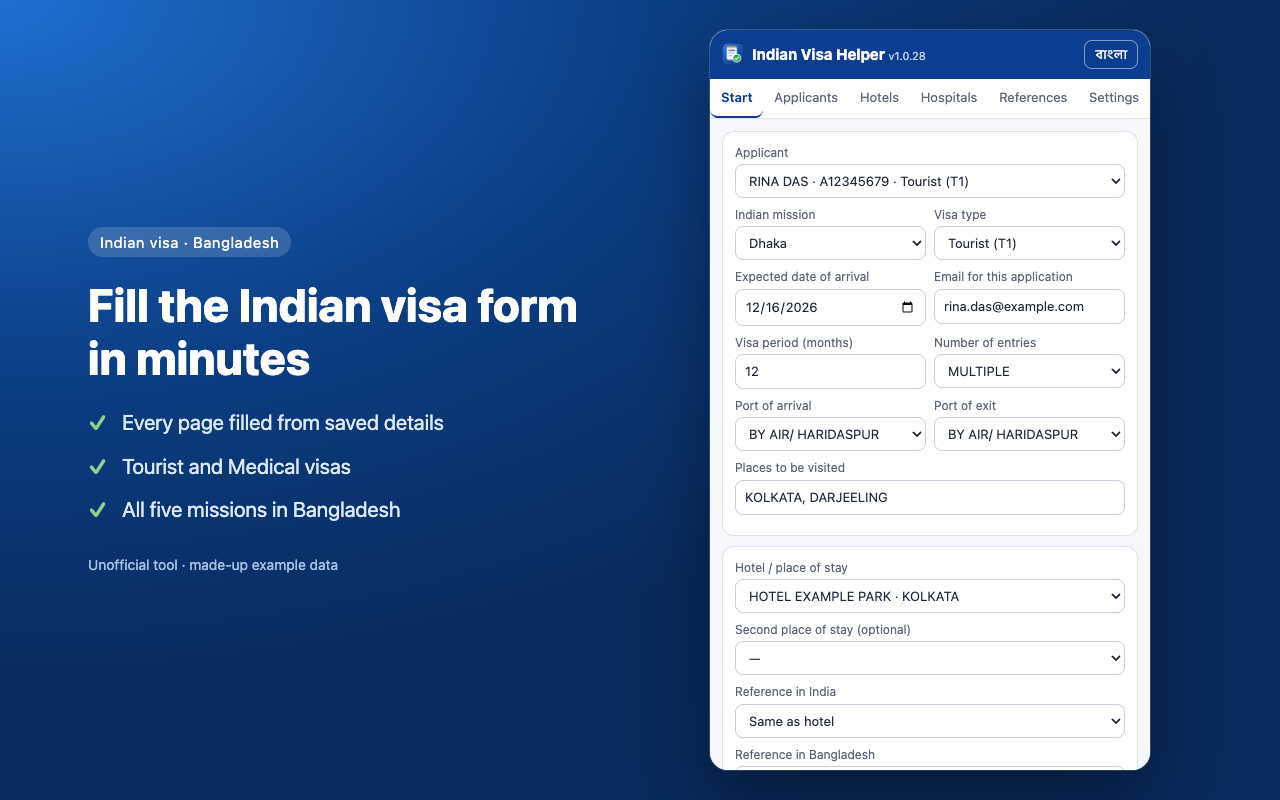
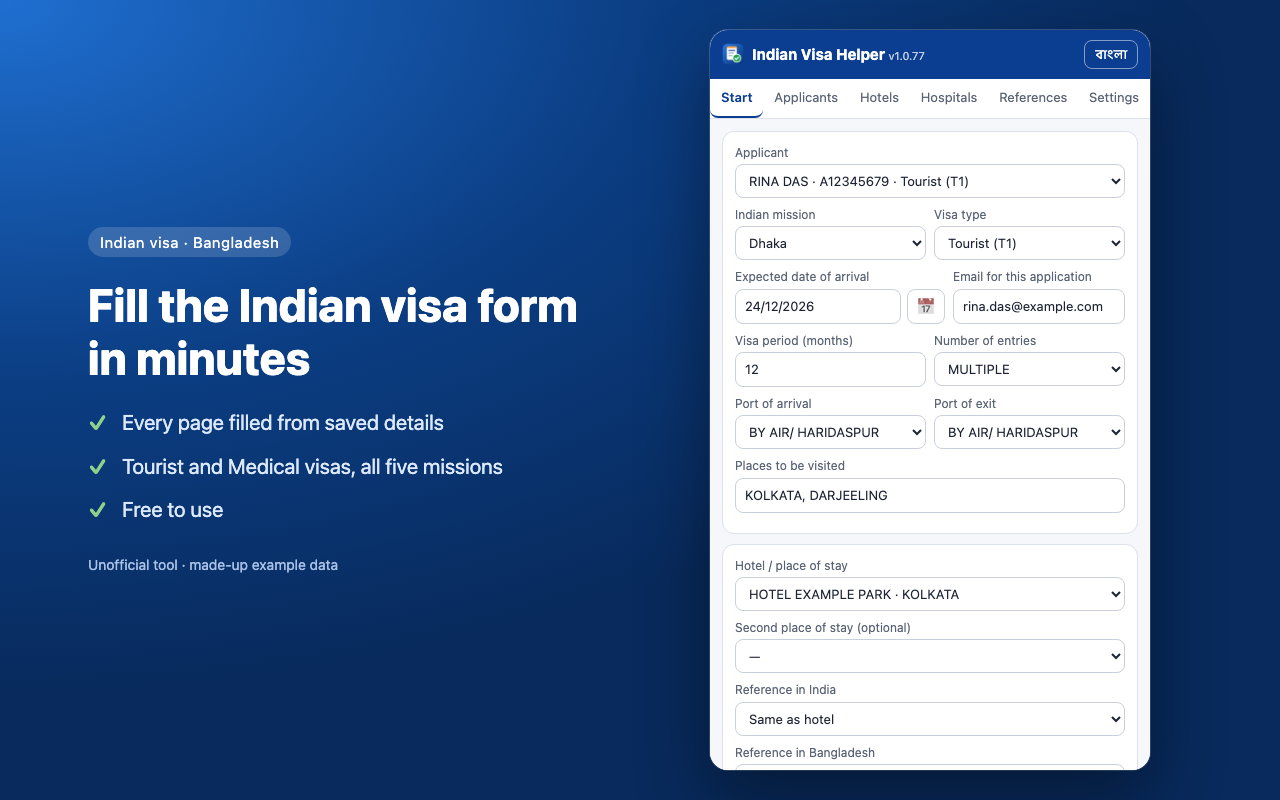
Indian Visa Form Helper v1.0.77
- History, Temporary ID and sync dates shown as DD/MM/YYYY
- Five new store screenshots and a bolder small promo tile
- Store description: family addresses, DD/MM/YYYY dates, auto-updates

diff --git a/store/shots/promo.html b/store/shots/promo.html
@@ -3,22 +3,73 @@
 <head>
 <meta charset="utf-8">
 <title>Store promo tile</title>
-<!-- 440×280 small promo tile for the Chrome Web Store. -->
+<!-- 440×280 small promo tile for the Chrome Web Store (shown on search and category cards).
+     No flags or government emblems: the helper is unofficial. -->
 <style>
   html, body { margin: 0; width: 440px; height: 280px; overflow: hidden; }
-  body { font-family: system-ui, -apple-system, "Segoe UI", sans-serif; color: #fff;
-    background: radial-gradient(500px 320px at 0% 0%, #1f6fd1 0%, #0b3d82 60%, #082a5c 100%);
-    display: flex; flex-direction: column; justify-content: center; padding: 0 36px; box-sizing: border-box; }
-  .top { display: flex; align-items: center; gap: 14px; margin-bottom: 16px; }
-  img { width: 64px; height: 64px; }
-  .tag { font-size: 13px; background: rgba(255,255,255,.16); padding: 5px 10px; border-radius: 999px; }
-  h1 { font-size: 30px; line-height: 1.15; margin: 0 0 10px; font-weight: 750; }
-  p { margin: 0; font-size: 15px; color: #cfe0f8; }
+  body { font-family: system-ui, -apple-system, "Segoe UI", sans-serif; color: #fff; position: relative;
+    background: radial-gradient(260px 220px at 85% 30%, rgba(80,170,255,.45), transparent 70%),
+                linear-gradient(135deg, #1565d8 0%, #0b3f8f 55%, #072a62 100%); }
+  /* soft dotted texture */
+  body::before { content: ""; position: absolute; inset: 0; opacity: .12;
+    background-image: radial-gradient(#fff 1px, transparent 1.2px); background-size: 14px 14px; }
+
+  .left { position: absolute; left: 24px; top: 22px; width: 232px; }
+  .brand { display: flex; align-items: center; gap: 8px; font-size: 12.5px; font-weight: 600; color: #d6e6ff; }
+  .brand img { width: 30px; height: 30px; }
+  h1 { margin: 12px 0 0; font-size: 33px; line-height: 1.02; font-weight: 850; letter-spacing: -.5px; }
+  h1 span { color: #ffd34d; }
+  .sub { margin: 8px 0 0; font-size: 14px; font-weight: 600; color: #e3eeff; }
+  .free { position: absolute; left: 24px; bottom: 20px; display: inline-flex; align-items: center; gap: 6px;
+    background: #ffc928; color: #3a2a00; font-weight: 850; font-size: 14px; padding: 7px 13px; border-radius: 999px;
+    box-shadow: 0 4px 12px rgba(0,0,0,.28); }
+  .chips { position: absolute; left: 24px; bottom: 58px; display: flex; gap: 6px; }
+  .chip { font-size: 11px; font-weight: 700; background: rgba(255,255,255,.16); border: 1px solid rgba(255,255,255,.25);
+    padding: 4px 8px; border-radius: 999px; white-space: nowrap; }
+
+  /* form card */
+  .form { position: absolute; right: 22px; top: 30px; width: 150px; height: 196px; background: #fff; border-radius: 12px;
+    box-shadow: 0 14px 30px rgba(0,0,0,.35); transform: rotate(4deg); padding: 12px 12px; box-sizing: border-box; color: #1f2937; }
+  .form .hd { height: 9px; width: 70%; background: #1565d8; border-radius: 4px; margin-bottom: 12px; }
+  .row { display: flex; align-items: center; gap: 7px; margin-bottom: 11px; }
+  .ok { flex: none; width: 15px; height: 15px; border-radius: 50%; background: #16a34a; display: grid; place-items: center; }
+  .ok::after { content: ""; width: 6px; height: 3px; border-left: 2px solid #fff; border-bottom: 2px solid #fff;
+    transform: rotate(-45deg) translate(1px,-1px); }
+  .line { height: 8px; border-radius: 4px; background: #dbe4f0; flex: 1; }
+  .btn { margin-top: 4px; height: 20px; border-radius: 6px; background: #16a34a; color: #fff; font-size: 10px; font-weight: 800;
+    display: grid; place-items: center; }
+
+  /* passport */
+  .pass { position: absolute; right: 128px; top: 150px; width: 78px; height: 104px; border-radius: 8px;
+    background: linear-gradient(160deg, #0f6b3a, #064e2a); box-shadow: 0 10px 22px rgba(0,0,0,.4); transform: rotate(-10deg);
+    display: flex; flex-direction: column; align-items: center; justify-content: center; gap: 8px; }
+  .pass .seal { width: 30px; height: 30px; border-radius: 50%; border: 2px solid #e8c766; }
+  .pass .t { font-size: 8.5px; font-weight: 800; letter-spacing: 1.2px; color: #e8c766; }
+  .pass.in { right: 92px; top: 112px; transform: rotate(12deg); background: linear-gradient(160deg, #1d2f6b, #0d1a45); }
+  .pass .c { font-size: 7px; font-weight: 700; letter-spacing: .8px; color: #e8c766; opacity: .9; }
+  .scan { position: absolute; left: -6px; right: -6px; top: 44px; height: 3px; background: #5ff0ff;
+    box-shadow: 0 0 10px 3px rgba(95,240,255,.8); border-radius: 2px; }
 </style>
 </head>
 <body>
-  <div class="top"><img src="/extension/icons/icon128.png" alt=""><span class="tag">Bangladesh · Tourist & Medical</span></div>
-  <h1>Indian Visa<br>Form Helper</h1>
-  <p>Fill every page from saved details. Unofficial.</p>
+  <div class="left">
+    <div class="brand"><img src="/extension/icons/icon128.png" alt="">For Bangladesh applicants</div>
+    <h1>Indian Visa<br><span>Auto-Fill</span></h1>
+    <p class="sub">Every page filled in seconds</p>
+  </div>
+  <div class="chips"><span class="chip">📷 Passport scan</span><span class="chip">EN · বাংলা</span></div>
+  <div class="free">✓ FREE to use</div>
+
+  <div class="form">
+    <div class="hd"></div>
+    <div class="row"><span class="ok"></span><span class="line"></span></div>
+    <div class="row"><span class="ok"></span><span class="line" style="flex:.7"></span></div>
+    <div class="row"><span class="ok"></span><span class="line"></span></div>
+    <div class="row"><span class="ok"></span><span class="line" style="flex:.6"></span></div>
+    <div class="row"><span class="ok"></span><span class="line" style="flex:.85"></span></div>
+    <div class="btn">FILLED ✓</div>
+  </div>
+  <div class="pass in"><span class="t">INDIA</span><span class="seal"></span><span class="c">PASSPORT</span></div>
+  <div class="pass"><span class="t">BANGLADESH</span><span class="seal"></span><span class="c">PASSPORT</span><span class="scan"></span></div>
 </body>
 </html>

diff --git a/extension/sidepanel/sidepanel.js b/extension/sidepanel/sidepanel.js
@@ -954,7 +954,7 @@ async function refreshStart() {
       return h('div', { class: 'tempid' },
         h('div', {},
           h('code', { title: t('copyTip'), onclick: () => navigator.clipboard.writeText(x.id).then(() => toast(t('copied'))) }, x.id),
-          h('div', { style: 'color:var(--muted)' }, `${x.name} · ${new Date(x.at).toLocaleDateString()}${x.lastPage ? ' · ' + t('lastPage') + ': ' + x.lastPage : ''}`)),
+          h('div', { style: 'color:var(--muted)' }, `${x.name} · ${new Date(x.at).toLocaleDateString('en-GB')}${x.lastPage ? ' · ' + t('lastPage') + ': ' + x.lastPage : ''}`)),
         // A submitted application can't be resumed; one whose applicant was deleted has nobody to fill it with.
         owner && !x.appId ? h('button', { style: 'padding:3px 8px;font-size:12px;flex:0 0 auto', onclick: () => resumeApplication(owner, x) }, '↻ ' + t('resume')) : null,
         h('button', { class: 'danger', style: 'padding:3px 8px;font-size:12px;flex:0 0 auto', title: t('tempRemove'), onclick: () => removeTempIds(y => y.id === x.id).then(refreshStart) }, '✕'));
@@ -1111,7 +1111,7 @@ function tempIdsCard(p, list, rerender) {
   return h('div', { class: 'card' }, h('h3', {}, t('tempIdsFor')), ...mine.map(x => h('div', { class: 'tempid' },
     h('div', {},
       h('code', { title: t('copyTip'), onclick: () => navigator.clipboard.writeText(x.id).then(() => toast(t('copied'))) }, x.id),
-      h('div', { style: 'color:var(--muted)' }, `${new Date(x.at).toLocaleDateString()}${x.lastPage ? ' · ' + t('lastPage') + ': ' + x.lastPage : ''}`)),
+      h('div', { style: 'color:var(--muted)' }, `${new Date(x.at).toLocaleDateString('en-GB')}${x.lastPage ? ' · ' + t('lastPage') + ': ' + x.lastPage : ''}`)),
     x.appId ? null : h('button', { style: 'padding:3px 8px;font-size:12px', onclick: () => resumeApplication(p, x) }, '↻ ' + t('resume')),
     h('button', { class: 'danger', style: 'padding:3px 8px;font-size:12px', title: t('tempRemove'), onclick: () => removeTempIds(y => y.id === x.id).then(rerender) }, '✕'))));
 }
@@ -1156,8 +1156,8 @@ function appRow(a, rerender, withName = false) {
     h('div', {},
       withName ? h('div', { style: 'font-weight:600' }, a.name || '—') : null,
       h('code', { title: t('copyTip'), onclick: () => navigator.clipboard.writeText(a.id).then(() => toast(t('copied'))) }, a.id),
-      h('div', { style: 'color:var(--muted)' }, [mission, type, a.submittedAt ? t('appSubmitted') + ' ' + new Date(a.submittedAt).toLocaleDateString() : t('appAdded') + ' ' + new Date(a.at).toLocaleDateString()].filter(Boolean).join(' · ')),
-      h('div', {}, a.status ? [h('b', {}, t('appStatus') + ': '), a.status.text, h('span', { style: 'color:var(--muted)' }, ` (${t('appChecked')} ${new Date(a.status.at).toLocaleString()})`)] : h('span', { style: 'color:var(--muted)' }, t('appNoStatus'))),
+      h('div', { style: 'color:var(--muted)' }, [mission, type, a.submittedAt ? t('appSubmitted') + ' ' + new Date(a.submittedAt).toLocaleDateString('en-GB') : t('appAdded') + ' ' + new Date(a.at).toLocaleDateString('en-GB')].filter(Boolean).join(' · ')),
+      h('div', {}, a.status ? [h('b', {}, t('appStatus') + ': '), a.status.text, h('span', { style: 'color:var(--muted)' }, ` (${t('appChecked')} ${new Date(a.status.at).toLocaleString('en-GB', { dateStyle: 'short', timeStyle: 'short' })})`)] : h('span', { style: 'color:var(--muted)' }, t('appNoStatus'))),
       a.pdf ? h('div', { style: 'color:var(--muted)' }, `📄 ${a.pdf.name} · ${Math.round(a.pdf.size / 1024)} KB`) : null),
     h('div', { style: 'display:flex;gap:4px;flex-wrap:wrap' },
       h('button', { ...small, onclick: () => openSiteJob('status', a) }, '🔎 ' + t('appStatusBtn')),
@@ -1444,7 +1444,7 @@ const SYNC_KEYS = ['profiles', 'hotels', 'hospitals', 'contacts', 'tempIds', 'ap
 let syncPassword = null; // kept only while the panel is open
 
 function syncCard(st, save) {
-  const info = h('div', { class: 'note', hidden: !st.syncAt }, st.syncAt ? t('syncLast').replace('{when}', new Date(st.syncAt).toLocaleString()) : '');
+  const info = h('div', { class: 'note', hidden: !st.syncAt }, st.syncAt ? t('syncLast').replace('{when}', new Date(st.syncAt).toLocaleString('en-GB', { dateStyle: 'short', timeStyle: 'short' })) : '');
   return h('div', { class: 'card' },
     h('h3', {}, '🔄 ' + t('syncTitle')),
     h('div', { class: 'note' }, t('syncHelp')),

diff --git a/store/shots/shot.html b/store/shots/shot.html
@@ -29,12 +29,14 @@
   const n = new URLSearchParams(location.search).get('n') || '1';
   const SHOTS = {
     1: { tab: 'start', tag: 'Indian visa · Bangladesh', title: 'Fill the Indian visa form in minutes',
-         points: ['Every page filled from saved details', 'Tourist and Medical visas', 'All five missions in Bangladesh'] },
-    2: { tab: 'profiles', tag: 'Families and agencies', title: 'Enter each applicant once. Reuse every time.',
-         points: ['Passport scan reads the details', 'Photo and PDFs made the right size', 'Hotels, hospitals and references saved'] },
-    3: { tab: 'start', scroll: 'history', tag: 'After you submit', title: 'Keep track of every application',
-         points: ['Application PDF saved for each person', 'Visa status in one click', 'Resume an unfinished form'] },
-    4: { tab: 'start', lang: 'bn', tag: 'বাংলা ও English', title: 'বাংলা ও ইংরেজি — দুই ভাষাতেই',
+         points: ['Every page filled from saved details', 'Tourist and Medical visas, all five missions', 'Free to use'] },
+    2: { tab: 'profiles', tag: 'Passport scan', title: 'Drop in a passport. Get every detail.',
+         points: ['Reads names, dates, parents and address', 'Photo or PDF, colour or black and white', 'Enter each applicant once, reuse every time'] },
+    3: { tab: 'profiles', edit: true, find: 'addr-bar', tag: 'Families', title: 'One family, one address. Fill it in a click.',
+         points: ['Save a family address and reuse it', 'Dates in DD/MM/YYYY', 'Missing fields shown before you start'] },
+    4: { tab: 'start', find: 'history', tag: 'After you submit', title: 'Keep track of every application',
+         points: ['Application PDF kept for each person', 'Visa status in one click', 'Resume an unfinished form'] },
+    5: { tab: 'start', lang: 'bn', tag: 'বাংলা ও English', title: 'বাংলা ও ইংরেজি — দুই ভাষাতেই',
          points: ['ক্যাপচা ও চূড়ান্ত সাবমিট আপনার হাতে', 'সব তথ্য আপনার নিজের কম্পিউটারে', 'কোনো অ্যাকাউন্ট বা ট্র্যাকিং নেই'] },
   };
   const s = SHOTS[n];
@@ -47,10 +49,16 @@
   f.onload = () => setTimeout(() => {
     const d = f.contentDocument;
     d.querySelector(`[data-tab=${s.tab}]`)?.click();
-    if (s.scroll) setTimeout(() => {
-      const el = [...d.querySelectorAll('h2,h3,.card b,.card .t')].find(x => /history|ইতিহাস/i.test(x.textContent));
-      (el?.closest('.card') || el)?.scrollIntoView({ block: 'start' });
-    }, 400);
+    if (s.edit) setTimeout(() => [...d.querySelectorAll('button')].find(x => /^(Edit|এডিট|সম্পাদনা)$/.test(x.textContent.trim()))?.click(), 300);
+    if (s.find) setTimeout(() => {
+      let el = s.find === 'history'
+        ? [...d.querySelectorAll('h3')].find(x => /^(Application history|আবেদনের ইতিহাস)$/.test(x.textContent.trim()))?.closest('.card')
+        : d.querySelector('.' + s.find);
+      el?.scrollIntoView({ block: s.find === 'history' ? 'start' : 'center' });
+      // the panel's header and tabs stay on top: move the card below them
+      if (el && s.find === 'history') { const top = el.getBoundingClientRect().top, head = d.querySelector('header, nav, .tabs');
+        const below = head ? head.getBoundingClientRect().bottom + 40 : 130; [d.scrollingElement, el.closest('main, .content, .tab-body')].forEach(x => x && (x.scrollTop -= below - top)); }
+    }, 900);
   }, 600);
   f.src = '/tools/panel-harness.html?v=shot' + n;
 </script>

diff --git a/store/LISTING.md b/store/LISTING.md
@@ -24,12 +24,14 @@ WHAT IT DOES
 • Free passport scan: drag in a photo or PDF of the passport and the details are filled in for you (name, dates, passport and NID number, parents, spouse, address). Works with phone photos and grey copies.
 • Free hotel search by city, with real hotels and their phone numbers, ready to use as the place of stay.
 • Saves applicants, hotels, hospitals and references, so families and agencies can reuse them.
+• Save a family's address once and fill it for every member in one click. Dates are shown as DD/MM/YYYY.
 • Prepares the photo and PDF documents in the size the site accepts.
 • Checks everything before you start, so a captcha is never wasted on an application that would stop half-way.
 • Makes the Medical Visa Undertaking form ready to print and sign.
 • Keeps a history of Temporary IDs and Application IDs, saves the final application PDF and checks visa status in one click.
 • Try it straight away with a made-up example applicant.
 • English and Bangla interface.
+• Updates install by themselves from the Chrome Web Store.
 
 YOU STAY IN CONTROL
 The captcha and the final "Verified and Continue" are never automated: you check the application and submit it yourself. The Additional questions declaration and the document verification box can be ticked for you (Settings, with a countdown and Pause).
@@ -55,12 +57,14 @@ Developed by Amrita Chandra Das (https://amrita.bd). Source and updates: https:/
 • ফ্রি পাসপোর্ট স্ক্যান: পাসপোর্টের ছবি বা PDF টেনে আনুন, তথ্য নিজে থেকেই পূরণ হবে (নাম, তারিখ, পাসপোর্ট ও NID নম্বর, বাবা-মা, স্বামী/স্ত্রী, ঠিকানা)। ফোনের ছবি ও ধূসর কপিতেও কাজ করে।
 • শহর দিয়ে ফ্রি হোটেল খোঁজ, আসল হোটেল ও তাদের ফোন নম্বরসহ, থাকার জায়গা হিসেবে সরাসরি ব্যবহারযোগ্য।
 • আবেদনকারী, হোটেল, হাসপাতাল ও রেফারেন্স সংরক্ষণ করে, যাতে পরিবার ও এজেন্সি বারবার ব্যবহার করতে পারে।
+• পরিবারের ঠিকানা একবার সংরক্ষণ করুন, এক ক্লিকে সবার জন্য পূরণ করুন। তারিখ দেখায় দিন/মাস/বছর (DD/MM/YYYY) হিসেবে।
 • ছবি ও PDF ডকুমেন্ট সাইটের গ্রহণযোগ্য সাইজে তৈরি করে।
 • শুরুর আগে সব কিছু যাচাই করে, যাতে অর্ধেক পথে আটকে যাওয়া আবেদনে ক্যাপচা নষ্ট না হয়।
 • মেডিকেল ভিসার আন্ডারটেকিং ফর্ম প্রিন্ট ও সই করার জন্য তৈরি করে।
 • টেম্পোরারি আইডি ও অ্যাপ্লিকেশন আইডির ইতিহাস রাখে, চূড়ান্ত আবেদনের PDF সংরক্ষণ করে এবং এক ক্লিকে ভিসার অবস্থা দেখায়।
 • একটি বানানো উদাহরণ আবেদনকারী দিয়ে সাথে সাথে চেষ্টা করে দেখুন।
 • ইংরেজি ও বাংলা ইন্টারফেস।
+• Chrome Web Store থেকে নতুন ভার্সন নিজে থেকেই আপডেট হয়।
 
 নিয়ন্ত্রণ আপনার হাতে
 ক্যাপচা ও চূড়ান্ত "Verified and Continue" কখনো স্বয়ংক্রিয় নয়: আবেদন দেখে আপনি নিজে জমা দেবেন। Additional questions-এর ঘোষণা ও ডকুমেন্ট যাচাইয়ের বক্সে টিক আপনার হয়ে দেওয়া যায় (সেটিংস, কাউন্টডাউন ও Pause সহ)।
@@ -77,7 +81,7 @@ Developed by Amrita Chandra Das (https://amrita.bd). Source and updates: https:/
 
 ### Graphics
 - **Store icon 128×128:** `extension/icons/icon128.png`
-- **Screenshots 1280×800:** `store/screenshots/` (upload in number order)
+- **Screenshots 1280×800:** `store/screenshots/1.png … 5.png` (upload in number order; remake with `store/shots/shot.html?n=1…5`)
 - **Small promo tile 440×280:** `store/promo-440x280.png`
 
 ### Additional fields

diff --git a/PROJECT-NOTES.md b/PROJECT-NOTES.md
@@ -45,7 +45,7 @@ https://indianvisa-bangladesh.nic.in for all Bangladesh missions: Dhaka, Chittag
 | Tester package | ✅ `dist/indian-visa-helper-v1.0.43.zip` | Contains the extension and TESTER-GUIDE.md; no keys, no applicant data |
 | Server passport scan (`/api/ocr`, RapidOCR container) | ✅ Live 2026-11-22 | Specimens + 3 real passport scans (identity fields 3/3; spaces sometimes missing in names/addresses) |
 | Helper server (ivh.techistbd.com) | ✅ Live 2026-11-21 (Cloudflare A record `ivh`, DNS only; HTTPS certificate by Caddy) | Site check passed on all 4 public pages; admin over Tailscale tested; field-map download tested against a local copy of the server |
-| Chrome Web Store | ✅ v1.0.55 published 2026-11-21 (Public; first version 1.0.28 on 2026-11-17). Next upload: the latest `dist/indian-visa-helper-store-v<version>.zip` (1.0.56+ adds Web Store auto-update, DD/MM/YYYY dates, family addresses, final-page fixes). Item ID `janilojppmedlpmlkheleblglanlmfpe`, https://chromewebstore.google.com/detail/janilojppmedlpmlkheleblglanlmfpe | `dist/indian-visa-helper-store-v1.0.28.zip`, listing text and answers in `store/LISTING.md`, privacy policy `store/privacy-policy.html` (must be hosted at a public URL), screenshots `store/screenshots/`, promo tile `store/promo-440x280.png`, store icon `store/store-icon-128.png`, promo video `store/promo-video.mp4` (store needs it as a YouTube link). |
+| Chrome Web Store | ✅ v1.0.55 published 2026-11-21 (Public; first version 1.0.28 on 2026-11-17). Next upload: the latest `dist/indian-visa-helper-store-v<version>.zip` (1.0.77 submitted for review 2026-11-24, with 5 new screenshots, a new promo tile and the updated description) (1.0.56+ adds Web Store auto-update, DD/MM/YYYY dates, family addresses, final-page fixes). Item ID `janilojppmedlpmlkheleblglanlmfpe`, https://chromewebstore.google.com/detail/janilojppmedlpmlkheleblglanlmfpe | `dist/indian-visa-helper-store-v1.0.28.zip`, listing text and answers in `store/LISTING.md`, privacy policy `store/privacy-policy.html` (must be hosted at a public URL), screenshots `store/screenshots/`, promo tile `store/promo-440x280.png`, store icon `store/store-icon-128.png`, promo video `store/promo-video.mp4` (store needs it as a YouTube link). |
 
 ---
 
@@ -206,7 +206,7 @@ tools/
    - **Content scripts:** the simulated pages in `tools/sim/`.
    - **Real site:** reload the extension in `chrome://extensions` and use a test application with dummy data. Never submit the final page.
 4. Build the tester package with `npm run zip`. The result is in `dist/`: the tester zip and the store zip (`indian-visa-helper-store-v<version>.zip`, upload this one to the Chrome Web Store).
-   Store images: with the local server running, `store/shots/shot.html?n=1…4` and `store/shots/promo.html` render the screenshots with made-up data (`store/shots/seed.js`); capture them at 1280×800 and 440×280 with headless Chrome.
+   Store images: with the local server running, `store/shots/shot.html?n=1…5` and `store/shots/promo.html` render the screenshots with made-up data (`store/shots/seed.js`); capture them at 1280×800 and 440×280 with headless Chrome.
 5. Testers: unzip, then **Load unpacked** the `indian-visa-helper` folder.
 
 Fresh checkout: run `npm install` and then `npm run vendor` before loading the extension.

diff --git a/CHANGELOG.md b/CHANGELOG.md
@@ -3,6 +3,10 @@
 The version is in `extension/manifest.json` and shows in the side panel header and the floating panel on the visa site.
 After reloading the extension in `chrome://extensions`, check that the number matches.
 
+## 1.0.77 — 2026-11-24
+- Dates in the application history, Temporary IDs and sync status now show as DD/MM/YYYY (time in 24 hours), like the rest of the panel, instead of following the computer's language (e.g. 11/18/2026).
+- Store: five new screenshots (`store/screenshots/1–5.png`: Start, passport scan, family address and dates, application history, Bangla) and a bolder small promo tile (`store/promo-440x280.png`).
+
 ## 1.0.76 — 2026-11-22
 - Confirmation page after submit: the PDF from the site's "Print Form" button is now caught on its way, downloaded as usual and kept in the applicant's history by itself — no second download, no "Add downloaded PDF" needed. If the site answers with anything other than a PDF, Print Form works exactly as before.
 - The floating panel there is short: "✅ Application submitted and saved to the history: <ID>. Click Print Form… Ready for the next application." The "Save application PDF" button is gone from that page (it is still in the history for older applications).
